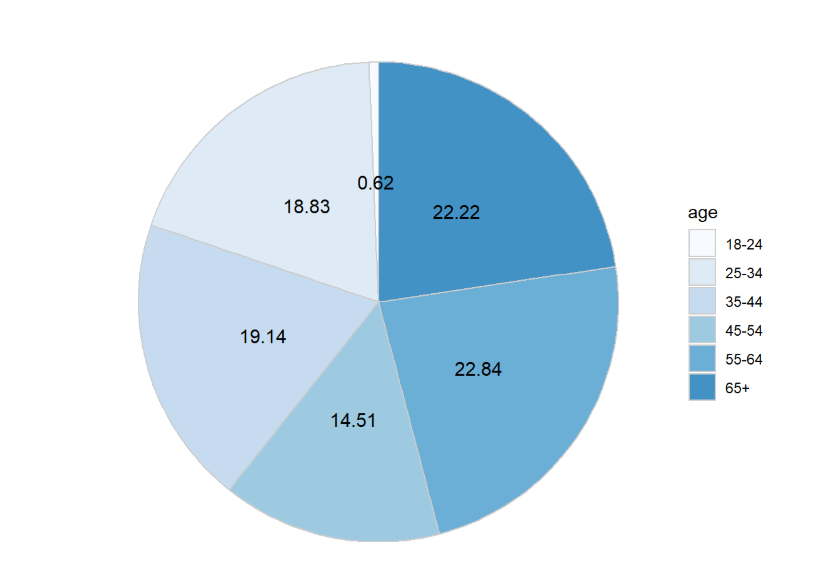
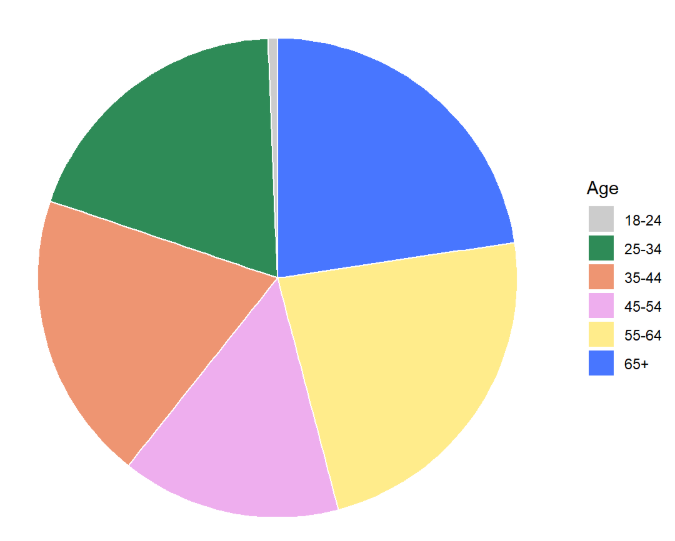
format plots

diff --git a/customer_survey_1.html b/customer_survey_1.html
@@ -271,11 +271,20 @@ necessary_delivery_bar</code></pre>
 <pre class="r"><code># Demographics
 demo_df &lt;- all_customers %&gt;% 
   select(id, age, household_number,grocery_expenditure,income) %&gt;%
-  filter(age != &quot;Rather not say&quot;) # remove those who declined to state
+  filter(age != &quot;Rather not say&quot;)  # remove those who declined to state
+ 
+demo_df$household_number &lt;- as.numeric(demo_df$household_number)
+
+summ_table &lt;- demo_df %&gt;% 
+  summarize(mean_size = mean(household_number),
+            median_size = median(household_number)) 
+
+median_income &lt;- demo_df %&gt;%
+  count(&quot;income&quot;)
 
 
 
-#Age Bar chart
+# Age Bar chart
 age_bar &lt;- ggplot(demo_df, aes(x = age, fill = id))+
   geom_histogram(stat = &quot;count&quot;) +
   scale_y_continuous(expand = c(0,0)) +
@@ -295,14 +304,14 @@ age_pie_df &lt;- demo_df %&gt;%
   
 
 age_pie &lt;- ggplot(age_pie_df, aes(x = &quot;&quot;, y = total, fill = age)) +
-  geom_bar(stat = &quot;identity&quot;, width = 2, color = &quot;grey80&quot;) +
+  geom_bar(stat = &quot;identity&quot;, width = 0.8, color = &quot;white&quot;) +
   coord_polar(&quot;y&quot;, start = 0) + # turn this bar graph into a pie chart!
   theme_void() + # remove background, grid, and numberic labels
-  geom_text(aes(y = ypos, label = prop), color = &quot;black&quot;, size = 4) +
-  scale_fill_paletteer_d(&quot;grDevices::blues9&quot;)
+  scale_fill_manual(name = &quot;Age&quot;, values = c(&quot;gray80&quot;, &quot;seagreen&quot;,&quot;lightsalmon2&quot;, &quot;plum2&quot;, &quot;lightgoldenrod1&quot;, &quot;royalblue1&quot;)) 
+  #scale_fill_paletteer_d(&quot;grDevices::blues9&quot;)
 
 age_pie </code></pre>
[2 lines of base64/hex data omitted]
 <pre class="r"><code># Age proportions separated into new and existing
 age_proportion_df &lt;- demo_df %&gt;% 
   group_by(age, id) %&gt;% 
